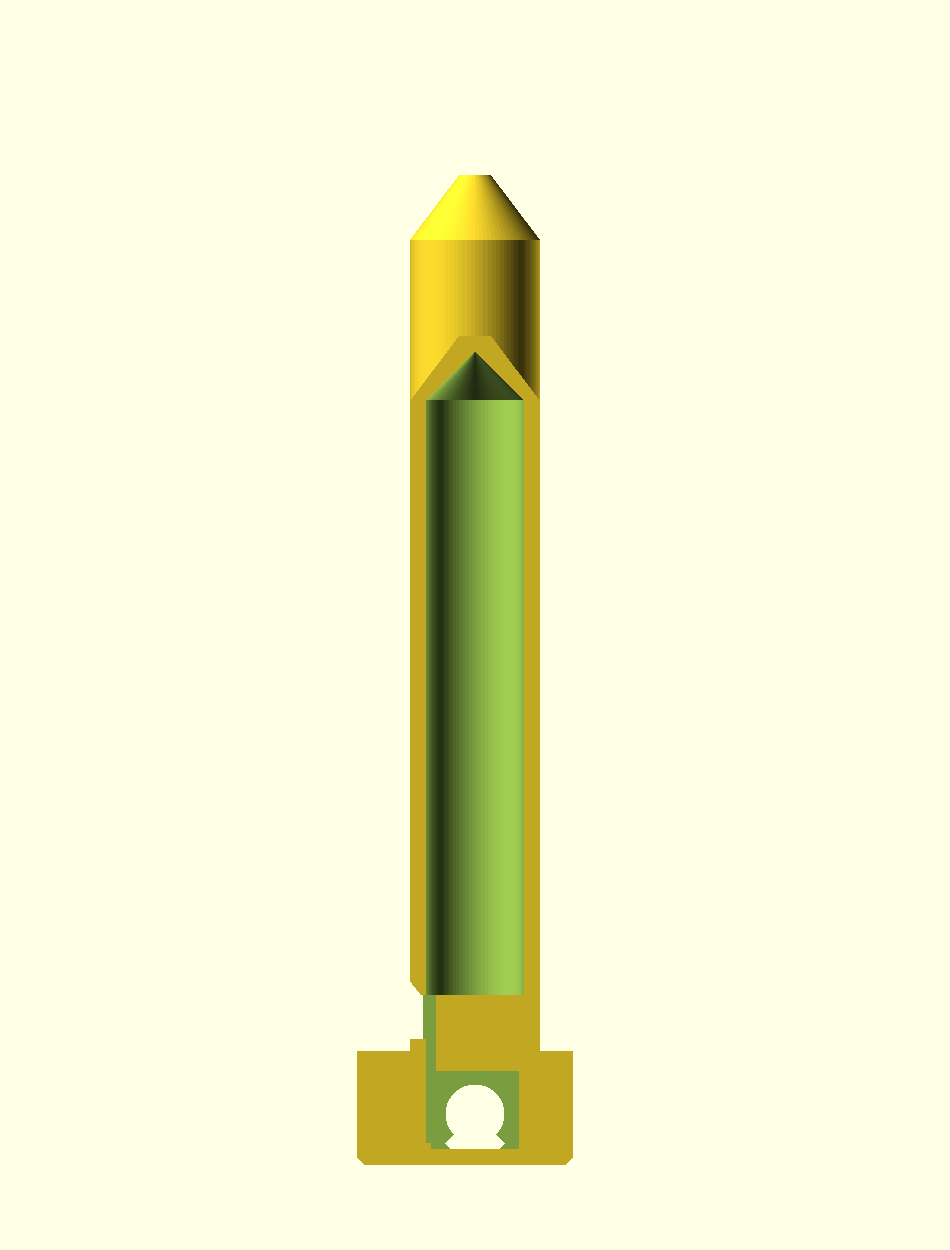
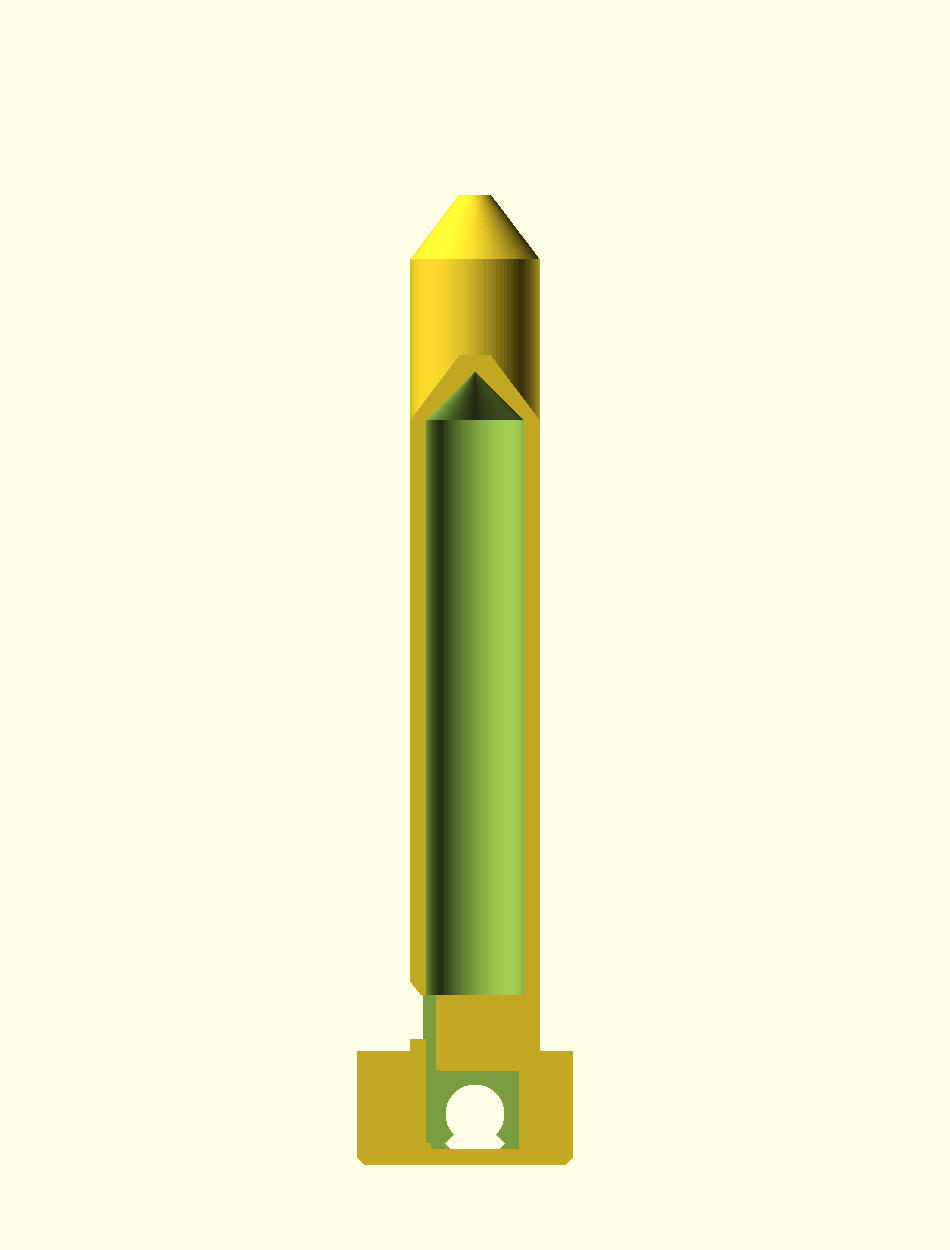
aerochord: address CodeRabbit round 2 (chord ratios + supportless beak)
- Chord ratios: fold the open-window end correction into end_corr as well as
  the cap cone. Add a `window_corr` parameter (~0.3-0.6 x bore radius, default
  2 mm) so end_corr = r_bore + window_corr. Without it the default triad drifts
  to ~1.244/1.487; with it the effective columns land exactly on 1.0/1.25/1.5.
  Documented in the .scad, NOTES derivation, and the README parameter table.
- Supportless mouthpiece: the enlarged nub cantilevered 11 mm with its
  underside 0.6 mm above the bed (a free overhang, against the design's
  no-supports claim). Replace it with a bed-resting snout (flat-bottomed foot)
  that still fully encloses the teardrop bore + point, is genuinely
  self-supporting, and widens the footprint.
- Regenerated previews + product shot; README/NOTES wording updated for the
  snout.

printcheck still 92/100 (default) / 84 (coupon), watertight, slices ~3 h 50 m.
gate.sh --slice exit 0.

Claude-Session: https://claude.ai/code/session_01U2MwN8WceBYX9JLqPDSpxx

Changed region(s): [[0.4274, 0.1248, 0.58, 0.2184], [0.4274, 0.2496, 0.58, 0.3432]]

diff --git a/designs/aerochord/NOTES.md b/designs/aerochord/NOTES.md
@@ -50,13 +50,22 @@ is the acoustic open end, the printed cap is the closed end. For a stopped pipe
 
 with `c = 343 m/s` at ~20 °C. The design solves `L_eff` per voice from its
 target frequency, then places the cap base a lumped **end correction**
-(`end_corr`, ≈ bore radius) *below* that so the physical air column — labium to
-cone apex, plus the window's open-end correction — matches `L_eff`
-(`tube_top(i) = labium_z + reson_len(i) − end_corr`). This matters for the
-chord: the cone and fipple add the *same* length to every voice, and a constant
-offset distorts the interval **ratios**; subtracting it keeps each column
-proportional to `1/f`. A global `tune` (a multiplier) cannot fix an additive
-error, which is why the offset is removed geometrically rather than tuned out.
+(`end_corr`) *below* that so the physical air column matches `L_eff`
+(`tube_top(i) = labium_z + reson_len(i) − end_corr`). `end_corr` has two
+constant parts:
+
+- **`r_bore`** — the conical cap, which extends the column from the cap base to
+  the cone apex (geometric, exact); and
+- **`window_corr`** — the open-window end correction, the extra effective length
+  the mouth adds beyond the labium (acoustic, ~0.3–0.6 × bore radius; default
+  2 mm ≈ 0.4 × the 5 mm bore radius, refined by a physical print).
+
+This matters for the chord: both parts add the *same* length to every voice, and
+a constant offset distorts the interval **ratios** (leaving `window_corr` out
+drifts the default triad to ~1.244 / 1.487 instead of 1.25 / 1.5). Subtracting
+the whole `end_corr` keeps each column proportional to `1/f`. A global `tune`
+(a multiplier) cannot fix an additive error, which is why the offset is removed
+geometrically rather than tuned out.
 
 Default chord: **just-intonation major triad**, ratios `[1, 5/4, 3/2]`, root
 `root_freq = 1046.5 Hz` (C6). That gives nominal resonator lengths of ~82 / 66 /
@@ -103,7 +112,9 @@ the product page too.
     CGAL mesh non-manifold;
   - labium = an extruded wedge steeper than 45°, leaving a `labium_land` (~0.5
     mm) printable tip instead of a zero-thickness knife;
-  - mouthpiece bore = a teardrop (support-free horizontal hole).
+  - mouthpiece = a **bed-resting snout** (flat on the plate), so nothing
+    cantilevers in free air; its bore is a teardrop (support-free horizontal
+    hole) whose point is fully enclosed by a `wall` of material.
 - **Tall and thin** (default ~106 mm tall on a 22 mm-deep base). PrusaSlicer
   flags generic "stability"; print with a **brim** and it's fine. Bed contact
   is a solid base bar, so adhesion is good.

diff --git a/designs/aerochord/README.md b/designs/aerochord/README.md
@@ -9,11 +9,11 @@ piece, standing up, with no supports** — the intricate internal air path only
 works because it was solved to be printable. For anyone who wants an
 instrument that is impossible to buy and faintly impossible to explain.
 
-![aerochord printed in amber-orange PLA (satin finish) — three graduated fipple pipes rising from a base bar, with the mouthpiece tube at the front](previews/product-hero.png)
+![aerochord printed in amber-orange PLA (satin finish) — three graduated fipple pipes rising from a base bar, with the bed-resting mouthpiece snout at the front](previews/product-hero.png)
 
 The three graduated pipes are the three voices of the default major triad — the
 tallest is the lowest note. The windows (mouths) sit at the front base of each
-pipe; the tube you blow into is at the bottom.
+pipe; the mouthpiece snout you blow into is at the front, resting on the bed.
 
 ![4-view contact sheet](previews/contact-sheet.png)
 
@@ -85,6 +85,7 @@ sections. The ones most worth touching:
 | `flue_h` | `1.0` mm | Windway air-gap — the critical FDM feature. Raise in 0.1 mm steps if a voice won't speak. Guarded ≥ 0.8 |
 | `cutup` | `4.5` mm | Flue-to-labium distance; the fipple's tone control. Breathy → lower it; shrill → raise it |
 | `bore_d` | `10` mm | Pipe bore diameter — louder/lower-impedance when wider |
+| `window_corr` | `2` mm | The open-window end correction folded into every tube's length so the chord *intervals* stay true (see NOTES). ~0.3–0.6 × bore radius; calibrate physically if the intervals sound off |
 
 Override on the command line, e.g. a warmer minor chord an octave down:
 
